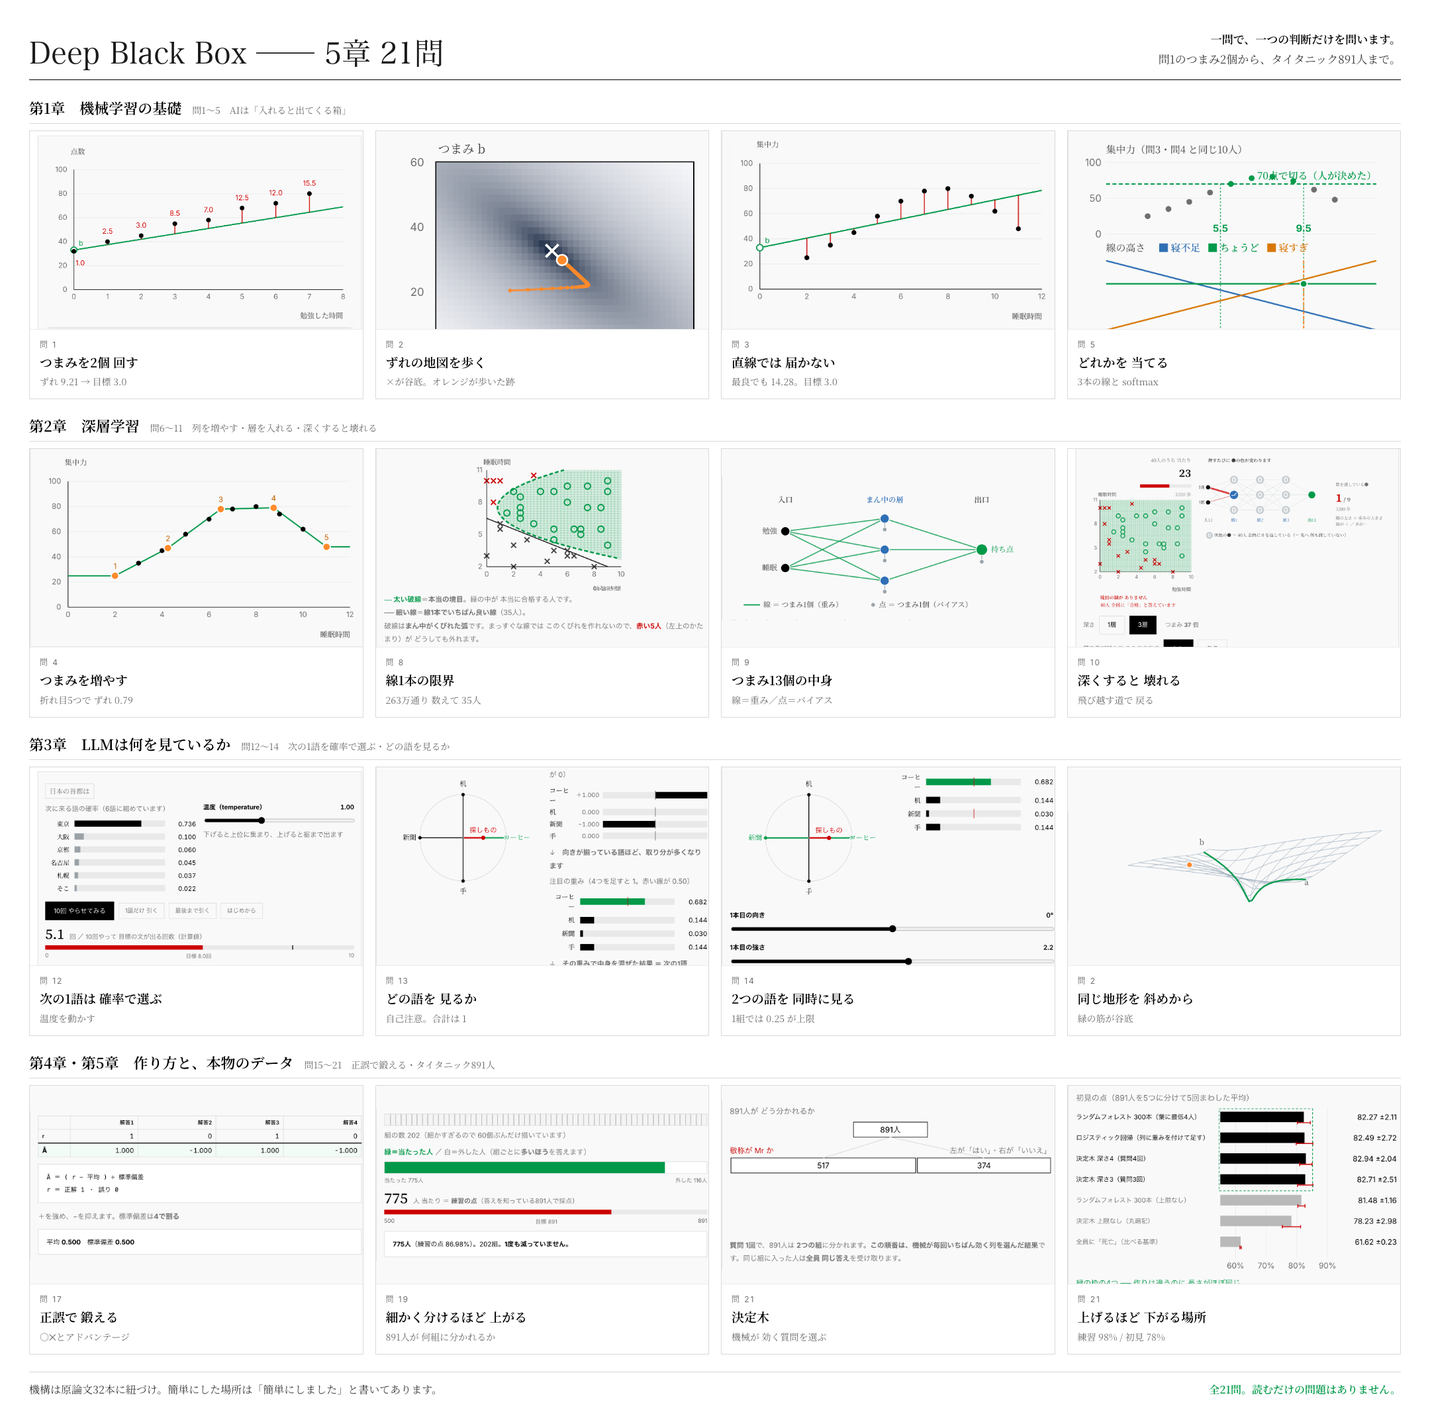
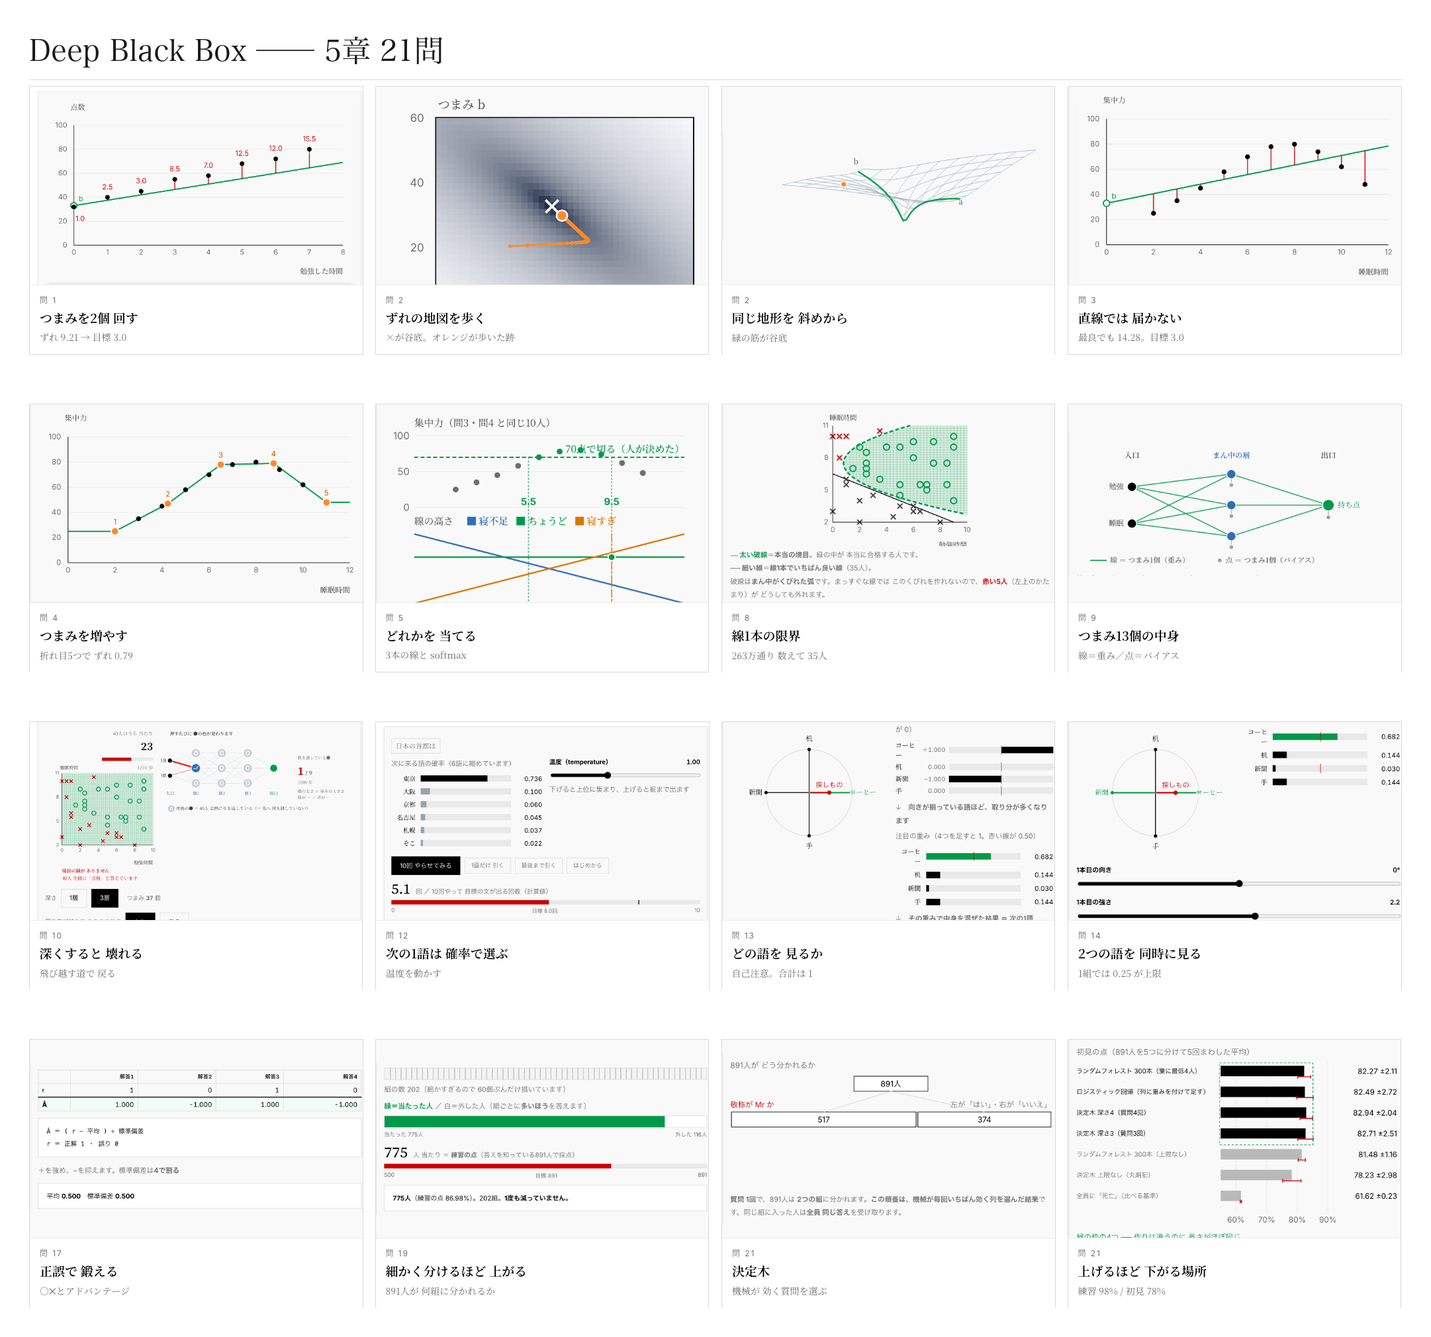
「何が学べるか」を差し替え、図1を問番号順に作り直した
【章の表】★章題と中身を全面差し替え（★文言は山田様が書かれたものを1文字も変えていない）
  1 機械学習 ／ 2 深層学習 ／ 3 LLM ／ 4 LLMはどうやって作られるのか ／
  5 本物のデータでは、何が精度を決めるのか
- ★入れ子図の下にあった表（機械学習・深層学習・LLMの定義）を index だけ消した
  → drawNest に table:false を足した。★q01・q06・q12・q15 では【残す】（迷子対策のため）
- ★表の下に2行（数式は出てきますが… ／ 中学生でも進められます…）

【折りたたみ】★章ごとに「▸ 詳しく」5つ・項目28件を新設（★中身は指示どおり）
- ★見出しも新しい章題に揃えた
- ★★項目の並びは【専門語（やさしい言い換え）】に統一した ── 逆だった4件を直した
  歩幅（学習率）→ 学習率（歩幅） ／ 人の好みで整える（RLHF）→ RLHF（人の好みで整える）
  正誤で鍛える（RLVR）→ RLVR（正誤で鍛える）
  入力の列を作る（特徴量エンジニアリング）→ 特徴量エンジニアリング（入力の列を作る）

【fig-chapters.png を作り直した】★撮り直しは1枚もしていない
- 消した：段の見出し4つとその横の説明文／右上の2行／一番下の2文
- 残した：タイトル「Deep Black Box ── 5章 21問」／各パネル下のラベル（1文字も触っていない）
- ★★16枚を【問番号順】に並べ替えた
  1段 問1／問2 地図／問2 斜めから／問3
  2段 問4／問5／問8／問9
  3段 問10／問12／問13／問14
  4段 問17／問19／問21 決定木／問21 上げるほど下がる場所
- ★格子を実測してから切り出した（4列×4段・パネル505x406・隙間18px）
- ★16枚のラベルを1枚に並べて目で読み、並び順を確かめた
- 2160x2154 → 2162x2020（★消した分だけ縦が縮んだ）／592KB
- ★assets/fig-q1q2.png は変更なし（★記事のファイルと md5 一致のまま）

【図のキャプション】★2px 下げた（16.6px → 14.6px）
- ★.fcap を新設。★.cap は【触っていない】── ★.cap は23ページの図で使われており、
  §5-43 ⑹ で 15px → 16.6px に【上げた】ものなので、下げるとその指示を打ち消す
- ★キャプションの文言も差し替え（★記事側と同じ2本）

【消した2行】★山田様の指定
- 「LLMは深層学習の一種で…外側から内側へ入っていきます」★上の入れ子図で分かるので不要
- 「第1章の問1から、画面のつまみを自分で動かします。読むだけの問題はありません。」

【実測】23ページ×2幅
- JSエラー0 ／ 横あふれ0 ／ 本文0字0 ／ 旧製品名0 ／ エンブレム22枚全部 ／ gtag 23枚全部
- 章の表 はみ出しなし ／ 折りたたみ5つ・項目28件・全部開いても横あふれ0
- index の入れ子図の表 0件・q01 は 1件（★狙いどおり）
- q01 の .cap は 16.6px のまま（★下げていないことを確認）
- A105 検査⑴〜⑾ 不合格0件

diff --git a/static/ai-shogi/index.html b/static/ai-shogi/index.html
@@ -43,37 +43,93 @@
 
 
 <div class="figbox">
- <img class="shot" src="assets/fig-chapters.png" width="2160" height="2154" loading="lazy" decoding="async"
+ <img class="shot" src="assets/fig-chapters.png" width="2162" height="2020" loading="lazy" decoding="async"
       alt="全21問を章ごとに並べた画面">
- <div class="cap" style="text-align:left"><b>図 1</b>　全21問を章ごとに並べたもの。第1章 機械学習の基礎（問1〜5）／第2章 深層学習（問6〜11）／第3章 LLMは何を見ているか（問12〜14）／第4章・第5章 作り方と、本物のデータ（問15〜21）。</div>
+ <div class="fcap" style="text-align:left"><b>図 1</b>　21問のうち16問の画面。どの問題も、つまみ（パラメータ）や選択肢を動かすと数字とグラフがその場で変わり、目標に届いたかどうかが判定されます。直線1本から始まり、層を重ねたネットワーク、言葉を選ぶ確率、本物のデータへと進みます。</div>
 </div>
 
-<!-- ══════════════════ ② 何が学べるか（図1枚 ＋ 表）══════════════════ -->
+<!-- ══════════════════ ② 何が学べるか（図1枚 ＋ 章の表 ＋ 章ごとの折りたたみ）══════════════════ -->
+
 <div class="card">
 <h2>何が学べるか</h2>
 
 <div id="nest"></div>
 
-
 <table class="dtab">
-<tr><th class="c"></th><th class="l">章</th><th class="l">中身</th><th class="c">問</th></tr>
-<tr><td class="c">1</td><td class="l"><a href="q01.html">機械学習の基礎</a></td>
-    <td class="l">AIは「入れると出てくる箱」。つまみを回す・坂を下る・確率に直す</td>
+<tr><th class="c">章</th><th class="l">章題</th><th class="l">中身</th><th class="c">問</th></tr>
+<tr><td class="c">1</td><td class="l"><a href="q01.html">機械学習</a></td>
+    <td class="l">AIが学習するとは、具体的に何をしているのか。数を調整して正解に近づける、その一番小さい形を自分の手で動かします</td>
     <td class="c">1〜5</td></tr>
 <tr><td class="c">2</td><td class="l"><a href="q06.html">深層学習</a></td>
-    <td class="l">列を増やす・単位をそろえる・層を入れる・深くすると壊れる</td>
+    <td class="l">深層学習の「深い」とは、何が深いのか。層を重ねる意味と、重ねただけではうまくいかない理由を、自分で層を足しながら確かめます</td>
     <td class="c">6〜11</td></tr>
-<tr><td class="c">3</td><td class="l"><a href="q12.html">LLMは何を見ているか</a></td>
-    <td class="l">次の1語を確率で選ぶ・どの語を見るか（注目）</td>
+<tr><td class="c">3</td><td class="l"><a href="q12.html">LLM</a></td>
+    <td class="l">ChatGPTは中で何をしているのか。動いているLLMが次に来る語を確率で選ぶしくみと、同じ質問でも答えが変わる理由を、動かして見ます</td>
     <td class="c">12〜14</td></tr>
-<tr><td class="c">4</td><td class="l"><a href="q15.html">どうやって作るか</a></td>
-    <td class="l">次の語を当てる訓練・人の好みで整える・正誤で鍛える</td>
+<tr><td class="c">4</td><td class="l"><a href="q15.html">LLMはどうやって作られるのか</a></td>
+    <td class="l">なぜAIは丁寧に答え、数学は得意で、それでいて自信を持って間違えるのか。次の語を当てる練習、人が選んだ記録で整える、正誤が付く問題で鍛える、という3段に分けて動かします</td>
     <td class="c">15〜17</td></tr>
-<tr><td class="c">5</td><td class="l"><a href="q18.html">本物のデータで使う</a></td>
-    <td class="l">タイタニック891人。ここから先はKaggle</td>
+<tr><td class="c">5</td><td class="l"><a href="q18.html">本物のデータでは、何が精度を決めるのか</a></td>
+    <td class="l">タイタニック号の乗客891人の記録から、年齢・性別・客室の等級をもとに生死を当てます。Kaggleで最もよく使われる入門課題です。使う道具は決定木です</td>
     <td class="c">18〜21</td></tr>
 </table>
 
+<p class="lead">数式は出てきますが、自分で計算する必要はありません。つまみを動かすと、画面がその場で計算します。</p>
+<p class="lead">中学生でも進められます。微分や対数を習っていれば、なぜそうなるかまで踏み込めます。</p>
+
+
+<details class="ch"><summary>第1章　機械学習</summary>
+<ul>
+ <li><b>関数</b>（入力から出力を計算する式）── y = ax + b から始めます。a と b がパラメータ（つまみ）です</li>
+ <li><b>誤差</b>（正解とのずれ）── 予測と正解の差を1つの数にまとめたもの。これを小さくするのが目標です</li>
+ <li><b>勾配降下法</b>（坂を下る）── 坂の高さは誤差です。傾きを調べて、誤差が減る方向へパラメータを少しずつ動かします。機械が自分でパラメータを決めるのは、この繰り返しです</li>
+ <li><b>学習率</b>（歩幅）── 大きすぎると坂を通り過ぎ、誤差が増え続けて戻れなくなります</li>
+ <li><b>式の形の限界</b> ── 直線の式では、どうパラメータを動かしても届かない問題があります。パラメータを増やして折れ線にすると届きます</li>
+ <li><b>softmax</b>（点数を確率に直す）── 点数のまま足し引きすると差が縮んでしまうので、指数を使って合計が1になる確率に直します。大小の順は変わりません</li>
+</ul>
+</details>
+
+<details class="ch"><summary>第2章　深層学習</summary>
+<ul>
+ <li><b>特徴量</b>（入力に使う列）── 1個から複数に増やします。関係のない列を足しても誤差は下がりません</li>
+ <li><b>正規化</b>（単位をそろえる）── 身長cmと体重kgのように桁が違う列を混ぜると、片方だけが効きすぎます。歩幅は全パラメータで共通なので、揃えないと学習が壊れます</li>
+ <li><b>直線の限界</b> ── 1本の直線では分けられない配置があります</li>
+ <li><b>中間層</b>（あいだの段）── 段を挟んでパラメータを増やします</li>
+ <li><b>活性化関数</b>（折り曲げる）── 折らないと、何段重ねても全体は直線1本と同じになります。だから段のあいだで曲げます</li>
+ <li><b>勾配消失</b>（深くすると壊れる）── 段を増やすと、誤差の手がかりが手前の段まで届かなくなり、手前の段が学習しなくなります。飛び越す道（残差接続）で直します</li>
+ <li><b>過学習</b> ── 訓練データだけに合わせすぎた状態です（第5章で実際に体験します）</li>
+</ul>
+</details>
+
+<details class="ch"><summary>第3章　LLM</summary>
+<ul>
+ <li><b>語彙</b>（出口）── 出力側の選択肢のことです。「次に来る語」の候補が5万個あり、それぞれに確率が付きます</li>
+ <li><b>確率分布</b> ── 5万個の確率の並び。いちばん高いものを選び続けると、無難な言い回しになります</li>
+ <li><b>温度</b> ── その並びの中から、どれだけ確率の高いものに寄せるかの設定です。上げると低い確率の語も出てきます。ただし並び自体は変わらないので、並びを変えたいときは質問に条件を足します</li>
+ <li><b>自己注意</b>（注目）── 文中のどの語を手がかりにするかの重みです。重みの合計が1になるので、複数の語を同時に強く見ることには上限があります</li>
+ <li><b>マルチヘッド</b> ── だから重みを複数本に分けて、別々の語を見られるようにします</li>
+</ul>
+</details>
+
+<details class="ch"><summary>第4章　LLMはどうやって作られるのか</summary>
+<ul>
+ <li><b>事前学習</b> ── 大量の文章で「次の語を当てる」練習だけをします。文法や事実は、この練習の副産物として付いてきます</li>
+ <li><b>RLHF</b>（人の好みで整える）── 「良い回答」は式に書けません。だから人に2つ見せて良いほうを選んでもらい、その記録を使って調整します。誰に選んでもらったかで結果が変わります</li>
+ <li><b>RLVR</b>（正誤で鍛える）── 答え合わせが機械でできる問題（数学・プログラム）だけを使って鍛えます。だから数学は伸び、面白さのような正解のないものはこの段では扱えません</li>
+ <li><b>自信を持って間違える理由</b> ── 訓練で選んでいるのは正しいことではなく、次に来そうなことだからです</li>
+</ul>
+</details>
+
+<details class="ch"><summary>第5章　本物のデータでは、何が精度を決めるのか</summary>
+<ul>
+ <li><b>データ</b> ── タイタニック号（1912年に沈んだ客船）の乗客891人の記録。年齢・性別・客室の等級などから、生き残ったかを当てます。Kaggleで最もよく使われる入門課題です</li>
+ <li><b>特徴量エンジニアリング</b>（入力の列を作る）── 人が新しい列を作ると、当たる数が増えます。たとえば名前から敬称を取り出します</li>
+ <li><b>訓練の点は物差しにならない</b> ── 列を増やすと訓練データの点は上がりますが、それは実力ではなく、極端には丸暗記です</li>
+ <li><b>決定木</b> ── 勾配降下とは別の仕組みです。切れ目を全部試して、いちばん良いものを選びます</li>
+ <li><b>交差検証</b> ── 1回だけ測ると数字がぶれます。分けて何回か測り、平均を取ります</li>
+ <li>作りの違うモデルを並べると、同じ水準に並びます。モデルより入力が効く場面がある、ということです</li>
+</ul>
+</details>
 </div>
 
 <!-- ══════════════════ ③ プロダクトの特徴（4つ ＋ 比較表）══════════════════ -->
@@ -104,7 +160,7 @@
  <div class="figbox">
   <img class="shot" src="assets/fig-q1q2.png" width="2400" height="1913" loading="lazy" decoding="async"
        alt="対話とつまみとグラフが同じ画面にある例">
-  <div class="cap" style="text-align:left"><b>図 2</b>　左上が対話。左下はつまみ2個と、そのときの点数と判定。右上は同じ画面のグラフで、赤い線が点と線のずれ。右は問2で、ずれの地図をオレンジが下っていくところと、同じ地形を斜めから見たもの。</div>
+  <div class="fcap" style="text-align:left"><b>図 2</b>　各問は博士と高校生のやりとりで始まり、そのあと自分で動かします。問1では、つまみを2つ動かすと線が点に近づき、ずれの点数がその場で返ります。問2では、そのずれを地形にして、いちばん低い場所へ向かって下ります。</div>
  </div>
 </div>
 
@@ -165,7 +221,8 @@
 
 drawCta("cta1");
 drawCta("cta2");
-drawNest("nest", 0, { head: false, outside: false });
+
+drawNest("nest", 0, { head: false, outside: false, table: false });
 
 drawFoot();
 

diff --git a/static/ai-shogi/common.js b/static/ai-shogi/common.js
@@ -393,7 +393,12 @@ function drawNest(id, ch, o) {
      ★★3重の入れ子を1枚の SVG で描く。★★文章は SVG の【外】（→ 規則：SVG の中に文章を入れない） */
   var h = document.getElementById(id); if (!h) return;
   o = o || {};
-  var oHead = (o.head !== false), oOut = (o.outside !== false);
+  /* 🔴 2026-09-09 A：★第4の選択肢 table を足した（★省略すると今までと1バイトも同じ）
+     ★★★index だけ表を出しません ── ★山田様「いまある2つの表を、1つにまとめてください。
+       上の表（機械学習・深層学習・LLMの定義）は削除します。定義は下の表の詳細に溶かしてあります」
+     ★★q01・q06・q12・q15 では【表を残す】── ★あそこの表は迷子対策で、
+       ★「いま どこの話か」を示す役があるため（→§5-41 の記事側FB）*/
+  var oHead = (o.head !== false), oOut = (o.outside !== false), oTab = (o.table !== false);
   var C = [
     { t: '機械学習',                   f: '#f6fafd', s: '#7ea9d4', n: 1 },
     { t: 'ディープラーニング（深層学習）', f: '#f5fbf7', s: '#77bb92', n: 2 },
@@ -485,7 +490,8 @@ function drawNest(id, ch, o) {
     (oHead ? '<div class="ft">いま どこの話をしているのか</div>' : '')
   + '<svg class="dg" viewBox="0 0 560 ' + VBH + '" role="img" aria-label="機械学習の中に深層学習、その中に LLM">'
   +   g + '</svg>'
-  + '<table class="ntab"><tr><th>呼び名</th><th>やること</th><th>章</th></tr>'
+  + (!oTab ? '' :
+    '<table class="ntab"><tr><th>呼び名</th><th>やること</th><th>章</th></tr>'
   /* 🔴 2026-09-09 A：★「つまみ」→「パラメータ（つまみ）」にした（★山田様の指定 2026-09-09）
      ★★ここは読者が最初に見る表なので、★正式な名前を先に出す形にした */
   +   '<tr><td>機械学習</td><td>データを見て、機械が自分でパラメータ（つまみ）を決める。人が数字を手で書かない。</td>'
@@ -495,7 +501,7 @@ function drawNest(id, ch, o) {
   /* 🔴 2026-09-02 1問1ページ担当2代目：★「出口5万語」の太字を外しました（★山田様の指定 17:5x） */
   +   '<tr><td>LLM</td><td>やることは「次の1語を当てる」だけ。それを出口5万語まで大きくしたもの。</td>'
   +     '<td>第3章・第4章' + (ch === 3 || ch === 4 ? '　<b>← いまここ</b>' : '') + '</td></tr>'
-  + '</table>';
+  + '</table>');
   /* 🔴 2026-09-07 A：★★幅が変わったら描き直す（★スマホを横に倒したとき／窓の大きさを変えたとき）
      ★★文字の大きさを【描画幅から逆算】しているので、★描いたあとに幅が変わると古い値のままになる。
      ★250ms まとめてから1回だけ描き直す（★resize を毎回 拾うと重い）。★登録は1回だけ */

diff --git a/static/ai-shogi/common.css b/static/ai-shogi/common.css
@@ -323,6 +323,30 @@ summary{font-size:14px;font-weight:500;cursor:pointer}
    ★loading="lazy" にしてある（★★測るときは先に全部スクロールする → §5-44 ⑻） */
 .shot{display:block;width:100%;height:auto;border:1px solid var(--gray-200);border-radius:.3rem;
   margin:0 0 .5rem;background:var(--white)}
+/* 🔴 2026-09-09 A：★★トップページの図のキャプションだけ 2px 下げた（★山田様の指定 2026-09-09）
+   ★★★「記事側では14px→12pxに下げます。ゲームのトップページ側にも図のキャプションがあれば、
+     同じように2px下げてください」
+   ★★.cap は【触っていない】── ★.cap は23ページの図で使われており、
+     ★§5-43 ⑹ で山田様の指示により 15px → 16.6px に【上げた】ものなので、
+     ★★下げると そちらの指示を打ち消してしまう。→ ★トップの図だけ別クラスにした */
+.fcap{font-size:14.6px;color:var(--gray-500);margin-bottom:.5rem;line-height:1.831}
+.fcap b{color:var(--black)}
+/* 🔴🔴 2026-09-09 A：★★章ごとの折りたたみ（▸ 詳しく）── ★トップページの「何が学べるか」
+   ★★★山田様の指定（2026-09-09）。★文言は書かれたものを1文字も変えていない
+   ★本文と同じ 16.6px / 行間1.831（→§5-44）。★見出しは太字にする（★折りたたみの題なので）
+   ★項目の頭の【用語】だけ太字（★§5-46 ⑷ の法則は『上のほう』と『紹介文』の話。★ここは中身） */
+.ch{border:1px solid var(--gray-200);border-radius:.4rem;margin:.6rem 0 0;background:var(--white)}
+.ch+.ch{margin-top:.45rem}
+.ch>summary{cursor:pointer;padding:.75rem .9rem;font-size:16.6px;line-height:1.831;
+  font-weight:700;color:var(--black);list-style:none}
+.ch>summary::-webkit-details-marker{display:none}
+.ch>summary::before{content:'▸ ';color:var(--gray-500)}
+.ch[open]>summary::before{content:'▾ '}
+.ch>summary:hover{text-decoration:underline;text-decoration-thickness:1px;text-underline-offset:3px}
+.ch ul{margin:0;padding:0 .9rem .9rem 2rem;list-style:disc}
+.ch li{font-size:16.6px;line-height:1.831;color:var(--gray-600);margin:0 0 .55rem}
+.ch li:last-child{margin-bottom:0}
+.ch li b{color:var(--black)}
 
 /* ══════════════════════════════════════════════════════════════════════════
    🔴 2026-09-02 1問1ページ担当【新設】進み具合の帯（全21問）／章の表示／戻る・次へ
